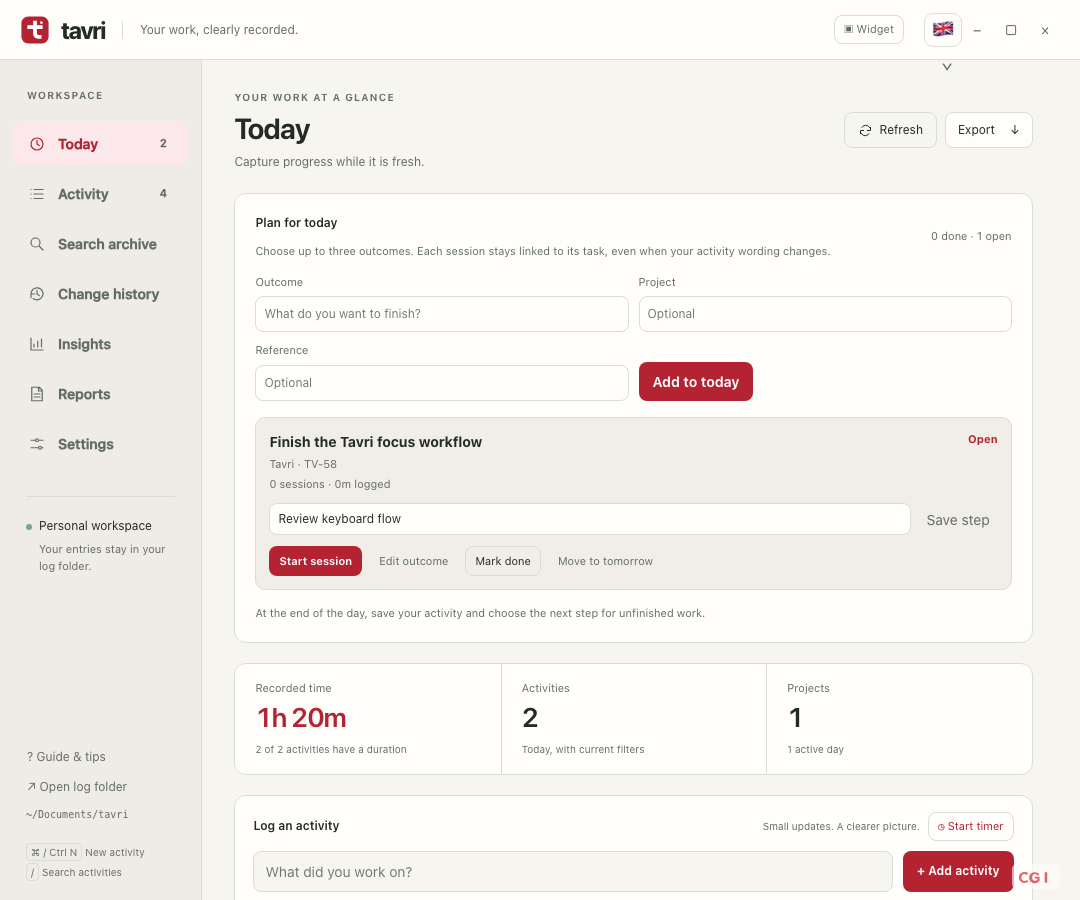
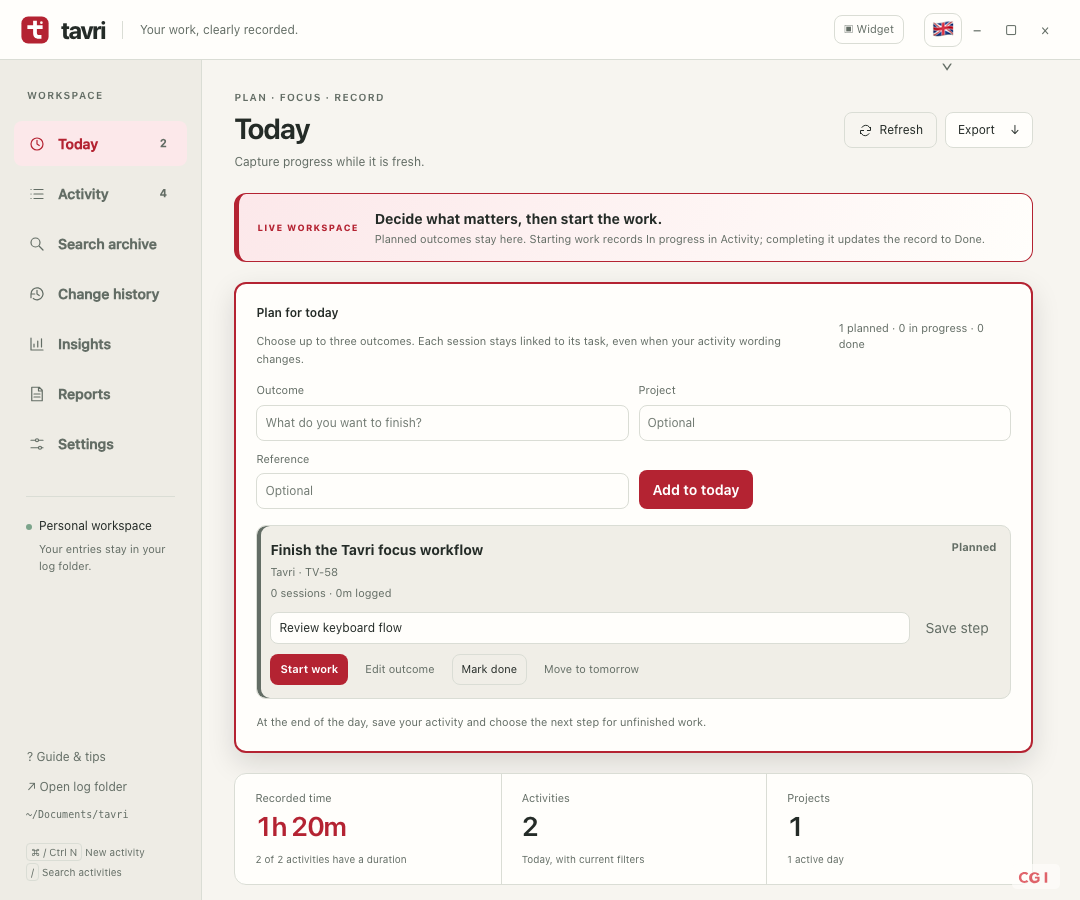
feat: connect Today focus states to Activity

diff --git a/desktop/index.html b/desktop/index.html
@@ -37,6 +37,7 @@
     </aside>
     <main class="workspace" id="workspace">
       <div class="workspace-title"><div><p class="eyebrow" id="viewEyebrow">Your work at a glance</p><h2 id="viewTitle">Activity</h2><p class="subtitle" id="viewSubtitle">A clear record of what moved forward.</p></div><div class="heading-actions"><button class="ghost-button" id="refreshButton" type="button" title="Refresh entries"><svg class="ui-icon" viewBox="0 0 24 24" aria-hidden="true" focusable="false"><path d="M20 7v5h-5M4 17v-5h5M6.3 7a7 7 0 0 1 11.4-1L20 9M4 15l2.3 3A7 7 0 0 0 17.7 17"/></svg><span>Refresh</span></button><details class="export-menu" id="exportMenu"><summary>Export <span aria-hidden="true">↓</span></summary><div class="export-popover"><label class="field" for="exportScope">Scope<select id="exportScope"><option value="view">Current view</option><option value="range">Custom date range</option></select></label><div id="exportRangeFields" class="export-range-fields" hidden><label class="field" for="exportRangeStart">From<input id="exportRangeStart" type="date"></label><label class="field" for="exportRangeEnd">To<input id="exportRangeEnd" type="date"></label></div><p id="exportScopeSummary" class="export-scope-summary" role="status" aria-live="polite">Export visible activities</p><div class="export-actions"><button class="export-button" data-format="txt" type="button">Plain text <span>TXT</span></button><button class="export-button" data-format="csv" type="button">Spreadsheet <span>CSV</span></button><button class="export-button" data-format="pdf" type="button">Report <span>PDF</span></button><button id="copyWeekButton" type="button">Copy to clipboard</button></div></div></details></div></div>
+      <section class="view-context" id="viewContext" aria-live="polite"><span id="viewContextLabel">SAVED RECORD</span><div><strong id="viewContextTitle">Your week, ready for Friday's timesheet.</strong><p id="viewContextText">Activity contains durable log entries used by Insights, reports, copy and export. Review this record before submitting your timesheet.</p></div></section>
       <div class="mode-toolbar" id="modeToolbar"><div class="activity-tabs" id="activityTabs" role="tablist" aria-label="Activity display mode">
         <button type="button" id="modeList" role="tab" data-activity-mode="list" aria-selected="true" aria-controls="weekView" tabindex="0"><svg class="ui-icon" viewBox="0 0 24 24" aria-hidden="true" focusable="false"><path d="M8 6h12M8 12h12M8 18h12M4 6h.1M4 12h.1M4 18h.1"/></svg><span>List</span></button>
         <button type="button" id="modeTimeline" role="tab" data-activity-mode="timeline" aria-selected="false" aria-controls="timelinePanel" tabindex="-1"><svg class="ui-icon" viewBox="0 0 24 24" aria-hidden="true" focusable="false"><path d="M5 12h14M7 6v12M17 6v12"/><rect x="10" y="9" width="4" height="6" rx="1"/></svg><span>Timeline</span></button>
@@ -64,7 +65,7 @@
         <div class="contributions-card"><div class="section-heading"><div><h3>Activity, day by day</h3><p id="calendarSummary" class="field-help"></p></div><div class="year-navigation"><button id="previousYearButton" aria-label="Previous year">‹</button><span id="calendarYearLabel"></span><button id="nextYearButton" aria-label="Next year">›</button></div></div><div id="contributionsGrid" class="contributions-scroll" tabindex="0" aria-label="Yearly activity calendar"></div><div class="contributions-footer"><span id="calendarDayHint">Choose a day to explore its activities.</span><div class="heat-legend" aria-label="Activity scale: 0, 1, 2–3, 4–6, 7 or more activities"><span>Less</span><i data-level="0"></i><i data-level="1"></i><i data-level="2"></i><i data-level="3"></i><i data-level="4"></i><span>More</span></div></div></div>
         <div class="section-heading contribution-detail-heading"><h3 id="contributionDateLabel"></h3><span id="contributionCount" class="muted"></span></div><p class="field-help">Totals, copy and export use the selected day and your filters.</p><div id="contributionEntries" class="commit-entries"></div>
       </section>
-      <section class="view" id="todayView" aria-labelledby="viewTitle"><div class="section-heading"><h3>Today's activities</h3><span id="todayDate" class="muted"></span></div><div class="entries" id="todayEntries"></div></section>
+      <section class="view" id="todayView" aria-labelledby="viewTitle"><div class="section-heading"><div><h3>Logged today</h3><p class="field-help">These entries are already part of your weekly Activity record.</p></div><span id="todayDate" class="muted"></span></div><div class="entries" id="todayEntries"></div></section>
       <section class="view" id="diagramView" aria-labelledby="viewTitle"><div class="section-heading"><h3>Where your time goes</h3><span id="diagramSummary" class="muted"></span></div><div id="diagramPanel" class="diagram"></div><section id="taskTimeSection" class="task-time-section" aria-labelledby="taskTimeTitle"><div class="section-heading"><div><h3 id="taskTimeTitle">Time on tasks</h3><p class="field-help">Compare saved durations with the current timer. Bars show time, not progress toward a target.</p></div></div><div id="taskTimeOverview"></div><div id="taskTimeRows" class="task-time-rows"></div><p id="taskTimeHint" class="field-help"></p></section><section class="weekly-review" aria-labelledby="weeklyReviewTitle"><div class="section-heading"><div><h3 id="weeklyReviewTitle">Review the selected week</h3><p id="weeklyReviewSummary" class="field-help"></p></div><button id="copyWeeklyReviewButton" class="ghost-button" type="button">Copy week summary</button></div><div id="weeklyReviewDays" class="review-days"></div><p class="field-help">Days without entries are shown as unrecorded, not as zero work.</p></section></section>
       <section class="view" id="archiveView" aria-labelledby="viewTitle"><div class="section-heading"><div><h3>Search every weekly file</h3><p class="field-help">Find descriptions, projects and references across your local archive. Results show their original week.</p></div></div><form id="archiveSearchForm" class="archive-search-form"><label class="field">Search terms<input id="archiveQuery" type="search" placeholder="Describe the work, project or ticket…" autocomplete="off"></label><label class="field">Project<input id="archiveProject" placeholder="Any project" autocomplete="off"></label><label class="field">From<input id="archiveStart" type="date"></label><label class="field">To<input id="archiveEnd" type="date"></label><button class="primary-button" type="submit">Search archive</button></form><p id="archiveStatus" class="field-help" role="status" aria-live="polite">Enter a term or choose dates, then search the archive.</p><div id="archiveResults"></div></section>
       <section class="view" id="changesView" aria-labelledby="viewTitle"><div class="section-heading"><div><h3>What changed in Tavri</h3><p class="field-help">Real timestamps for changes made in the desktop app from this version onward. Older log files do not contain creation times.</p></div></div><label class="field change-search">Find a change<input id="changeQuery" type="search" placeholder="Search descriptions or operation types…" autocomplete="off"></label><p id="changesStatus" class="field-help" role="status" aria-live="polite"></p><div id="changeEvents" class="change-events"></div></section>

diff --git a/desktop/styles.css b/desktop/styles.css
@@ -122,6 +122,14 @@ details[open] > summary::after { content: '⌃'; }
 kbd { font: 10px var(--font-sans); border: 1px solid var(--line); border-radius: 4px; padding: 2px 4px; }
 .workspace { min-width: 0; overflow-y: auto; padding: 30px clamp(22px, 3vw, 48px) 48px; scrollbar-gutter: stable; }
 .workspace > * { max-width: 1200px; margin-left: auto; margin-right: auto; }
+.view-context { display: flex; align-items: center; gap: 16px; margin-bottom: 20px; padding: 14px 18px; border: 1px solid var(--line); border-left: 5px solid var(--muted); border-radius: var(--radius); background: var(--surface); }
+.view-context > span { flex: none; min-width: 92px; color: var(--muted); font-size: 9px; font-weight: 800; letter-spacing: .13em; }
+.view-context strong { display: block; font-size: 14px; }
+.view-context p { margin-top: 2px; color: var(--muted); font-size: 11px; }
+.workspace[data-view="today"] .view-context { border-color: var(--accent-border, var(--accent)); border-left-width: 5px; background: linear-gradient(110deg, var(--accent-soft), var(--surface)); }
+.workspace[data-view="today"] .view-context > span { color: var(--accent-text, var(--accent)); }
+.workspace[data-view="today"] .focus-section { border: 2px solid var(--accent-border, var(--accent)); box-shadow: 0 10px 28px #0002; }
+.workspace[data-view="week"] #weekView { border-top: 3px solid var(--line); padding-top: 18px; }
 .focus-section { margin-bottom: 20px; padding: 20px; border: 1px solid var(--line); border-radius: var(--radius); background: var(--surface); }
 .focus-section .section-heading { margin-bottom: 14px; }
 .focus-form { display: grid; grid-template-columns: minmax(190px,2fr) minmax(110px,1fr) minmax(110px,1fr) auto; gap: 10px; align-items: end; }
@@ -129,10 +137,13 @@ kbd { font: 10px var(--font-sans); border: 1px solid var(--line); border-radius:
 .focus-form button { white-space: nowrap; }
 .focus-tasks { display: grid; gap: 10px; margin-top: 16px; }
 .focus-task { border: 1px solid var(--line); border-radius: 10px; padding: 13px; background: var(--surface-soft); }
-.focus-task.is-done { opacity: .78; }
+.focus-task.is-done { opacity: .78; border-style: dashed; }
+.focus-task.is-progress { border-color: var(--accent-border, var(--accent)); box-shadow: inset 4px 0 0 var(--accent); }
+.focus-task.is-planned { box-shadow: inset 4px 0 0 var(--muted); }
 .focus-task-heading { display:flex; justify-content:space-between; gap:12px; }
 .focus-task-heading strong { font-size: 14px; }
 .focus-task-heading span { font-size: 11px; color: var(--accent-text, var(--accent)); font-weight: 700; }
+.focus-task.is-planned .focus-task-status { color: var(--muted); }
 .focus-task-meta, .focus-task-time { color: var(--muted); font-size: 11px; margin-top: 4px; }
 .focus-next-step { display:flex; gap:8px; align-items:center; margin-top:10px; }
 .focus-next-step input { padding: 6px 8px; font-size: 12px; }
@@ -147,6 +158,7 @@ kbd { font: 10px var(--font-sans); border: 1px solid var(--line); border-radius:
 .focus-section > .field-help { margin-top:12px; }
 @media (max-width: 1080px) { .focus-form { grid-template-columns: repeat(2,minmax(0,1fr)); } .focus-form button { justify-self:start; } }
 @media (max-width: 700px) { .focus-form, .focus-task-editor { grid-template-columns: 1fr; } }
+@media (max-width: 700px) { .view-context { align-items: flex-start; flex-direction: column; gap: 6px; } }
 .workspace-title { display: flex; justify-content: space-between; align-items: center; gap: 20px; margin-bottom: 22px; }
 .workspace-title h2 { font-size: 29px; letter-spacing: -.035em; font-weight: 650; margin: 2px 0; }
 .subtitle { font-size: 12px; color: var(--muted); }
@@ -258,6 +270,9 @@ kbd { font: 10px var(--font-sans); border: 1px solid var(--line); border-radius:
 .chip { color: var(--muted); background: var(--surface-soft); font-size: 10px; border-radius: 5px; padding: 2px 7px; max-width: 100%; overflow-wrap: anywhere; }
 .chip--project { color: var(--accent-text, var(--accent)); background: var(--accent-soft); }
 .chip--duration { background: transparent; padding-left: 0; font-variant-numeric: tabular-nums; }
+.chip--status { border: 1px solid var(--line); font-weight: 750; text-transform: uppercase; letter-spacing: .06em; }
+.chip--in-progress { color: var(--accent-text, var(--accent)); border-color: var(--accent-border, var(--accent)); background: var(--accent-soft); }
+.chip--done { color: var(--ink); background: var(--surface-soft); }
 .entry-actions { display: flex; align-items: center; gap: 2px; }
 .entry-actions button { font-size: 10px; padding: 4px 6px; background: transparent; border-color: transparent; color: var(--muted); }
 .entry-actions button:hover { color: var(--ink); background: var(--surface-soft); }
